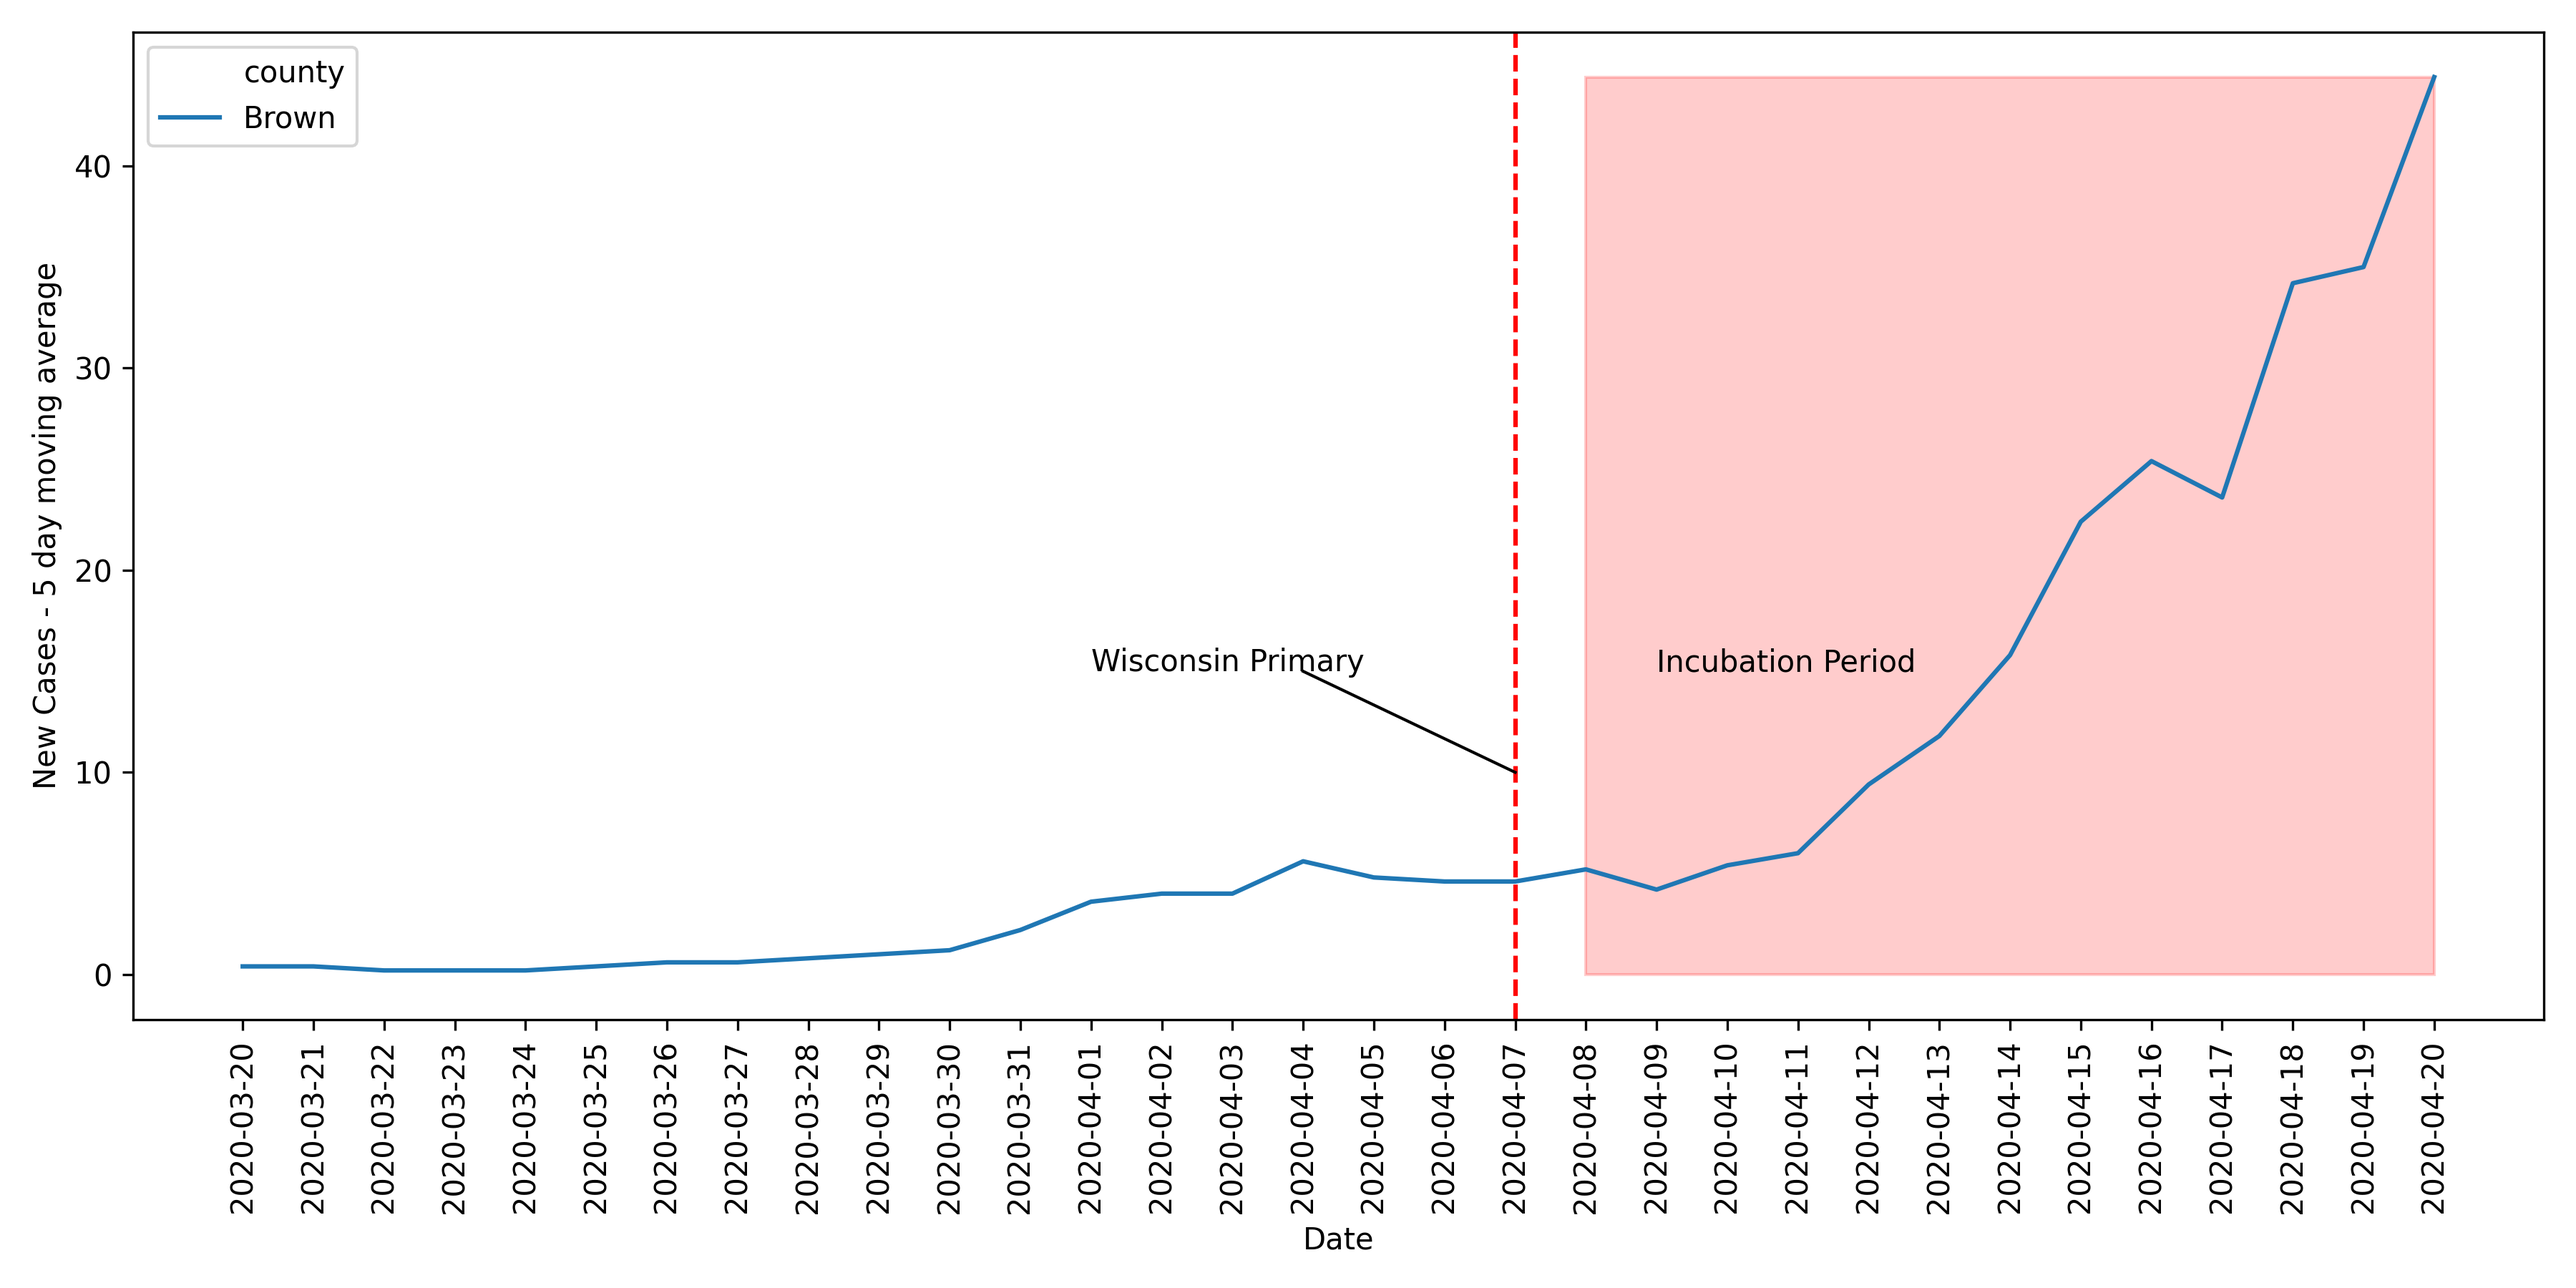
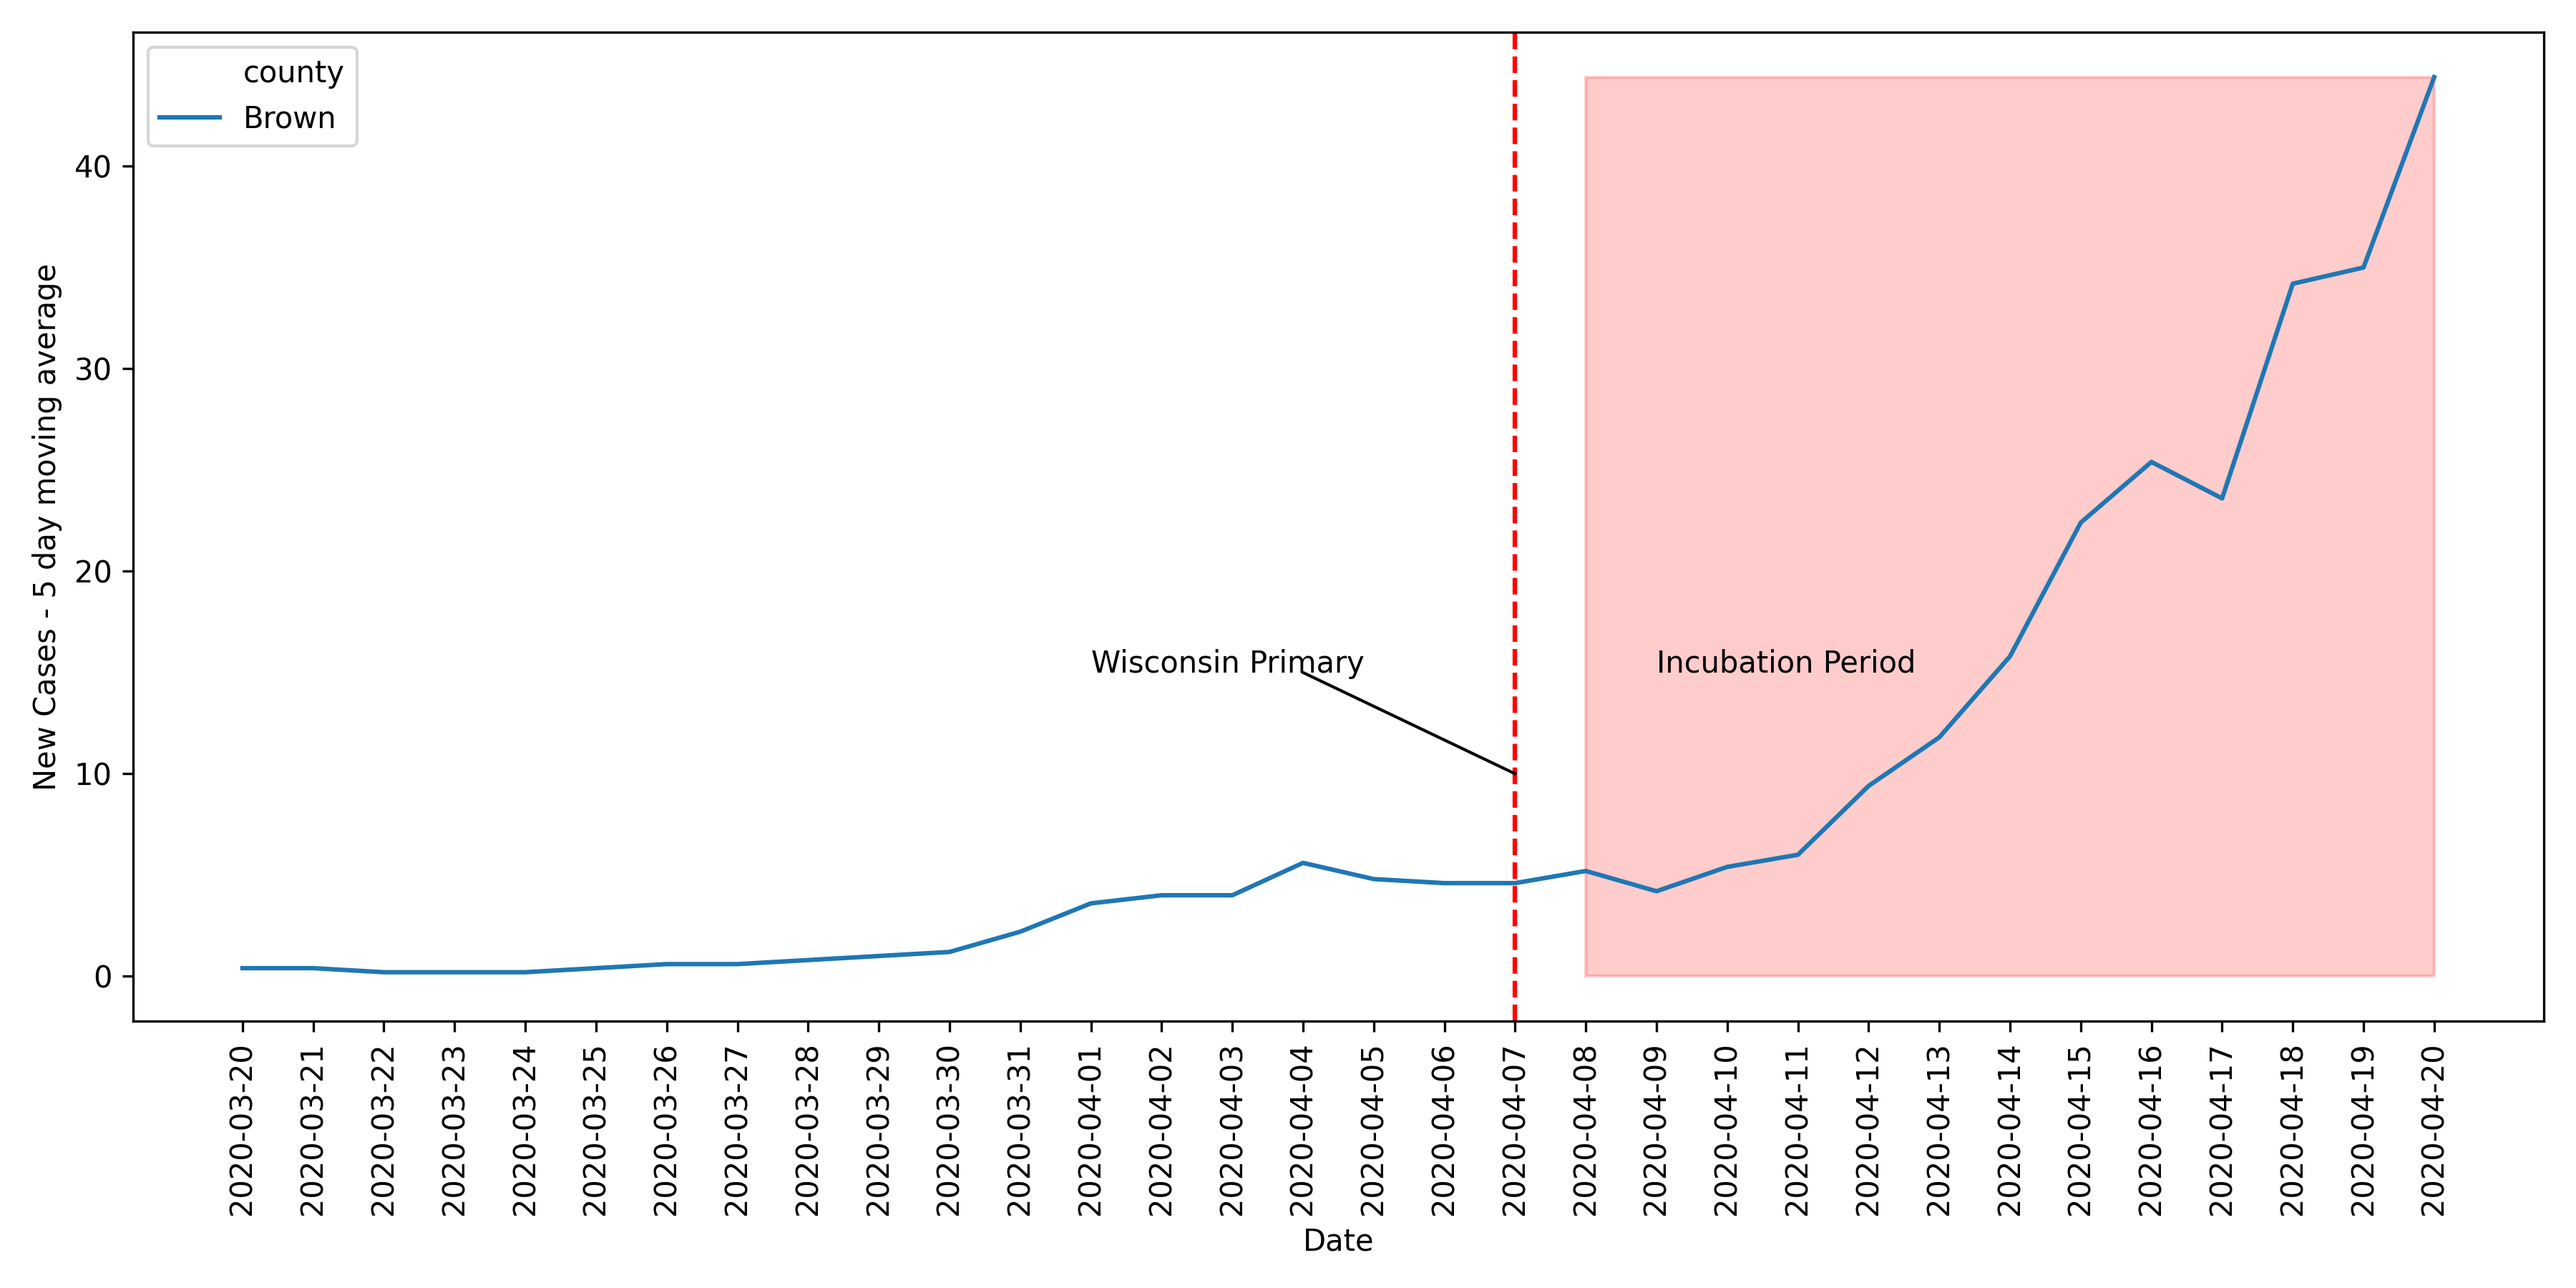
Fixing plots

diff --git a/covid_analysis.py b/covid_analysis.py
@@ -762,7 +762,7 @@ def wisconsin_election(df: pd.DataFrame=None, ma_days: int=5) -> None:
     plt.plot(['2020-04-04', '2020-04-07'], [100, 80], 'black', linewidth=1)
     max_date = df['date'].max()
     split_date = max_date.split("-")
-    incubation_end = f"{'-'.join(split_date[:2])}-{str(int(split_date[-1])-int(ma_days/2))}" if df['date'].max() <= '2020-04-21' else '2020-04-21'
+    incubation_end = f"{'-'.join(split_date[:2])}-{str(int(split_date[-1])-int(ma_days/2))}" if df['date'].max() <= '2020-04-22' else '2020-04-21'
     fill(['2020-04-08',incubation_end,incubation_end,'2020-04-08'], [0,0,df['moving_ave'].max(),df['moving_ave'].max()], 'r', alpha=0.2, edgecolor='r')
     plt.text('2020-04-09', 100, 'Incubation Period')
     

diff --git a/_covid_utils.py b/_covid_utils.py
@@ -219,8 +219,6 @@ def _plot_deaths_per_capita_county(df: pd.DataFrame) -> None:
     else:
         num_col = 1
     
-    df.sort_values('deaths_per_10k', inplace=True, ascending=False)
-    
     plt.figure(figsize=(12, 6))
     
     sns.lineplot('date', 'deaths_per_10k', hue='county, state', data=df)
